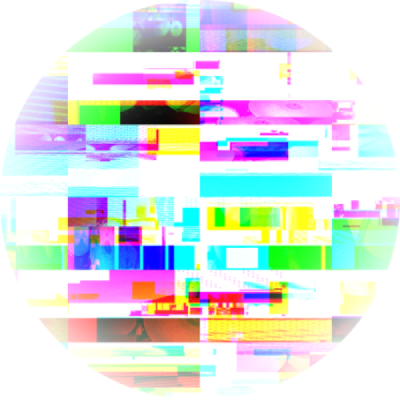
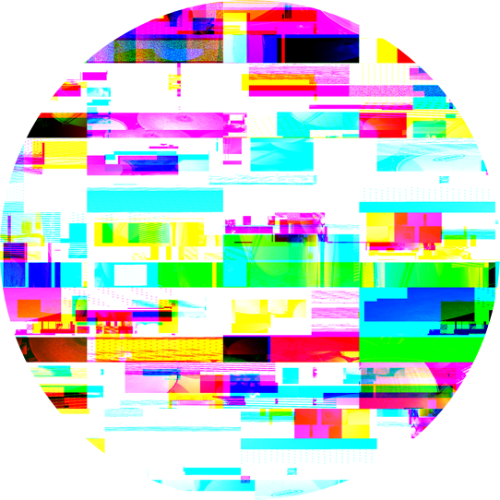
3 images

diff --git a/index.html b/index.html
@@ -13,10 +13,12 @@
 
 
   <section>
-    <p>Matt Barrell.<br><br>Sales & Lettings in <a href="http://readingestateagent.com" target="_blank">Reading, UK</a>. I like to play instruments and make <a href="http://leaderofficial.co.uk" target="_blank">music</a>. You can find me on <a href="https://instagram.com/onthematt" target="_blank">Instagram</a>, <a href="https://linkedin.com/in/onthematt" target="_blank">LinkedIn</a> and <a href="https://twitter.com/onthematt" target="_blank">Twitter</a> too.<br><br> Sometimes I write down my thoughts and post them <a href=blog.html>here</a>.<br><br>Don't be shy - <a href="mailto:onthematt@hotmail.co.uk">say hello</a>!<br><br>
+    <p>Matt Barrell.<br><br>Sales & Lettings in <a href="http://readingestateagent.com" target="_blank">Reading, UK</a>.<br><br> I like to play instruments and make <a href="http://leaderofficial.co.uk" target="_blank">music</a>! You can find me on <a href="https://instagram.com/onthematt" target="_blank">Instagram</a>, <a href="https://linkedin.com/in/onthematt" target="_blank">LinkedIn</a> and <a href="https://twitter.com/onthematt" target="_blank">Twitter</a> too.<br><br> Sometimes I write down my thoughts and post them <a href=blog.html>here</a>.<br><br>Don't be shy - <a href="mailto:onthematt@hotmail.co.uk">say hello</a>!<br>
     </p>
-    <img src="headshot.png">
-    <br><br>
+    <img width="300px" src="circle.png">
+    <br>
+    <img width="200px" src="profile.png">
+    <br>
     <a href="https://onthematt.co.uk"><img src="onthematt.png" width="150"></a>
   </section>
 </body>
